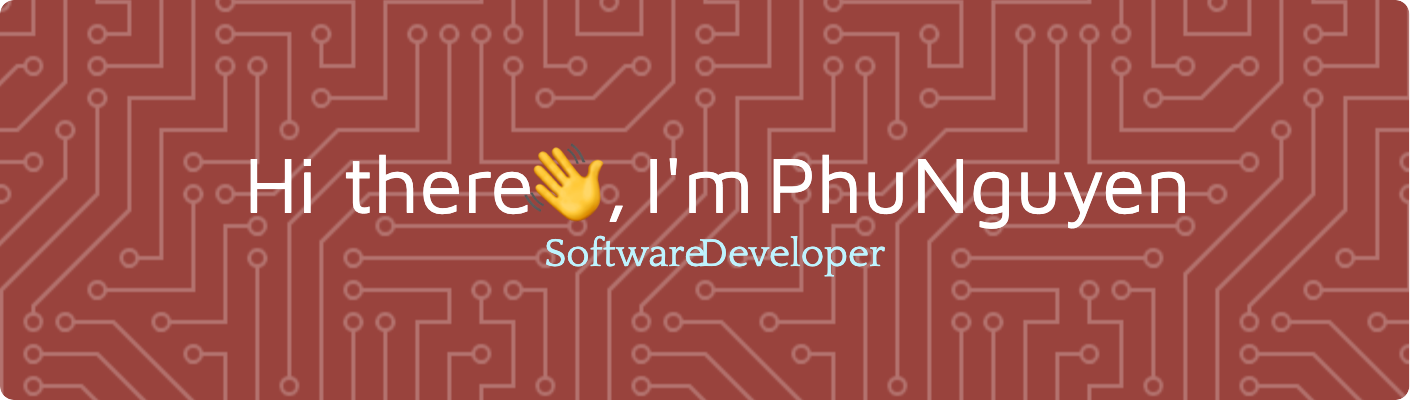
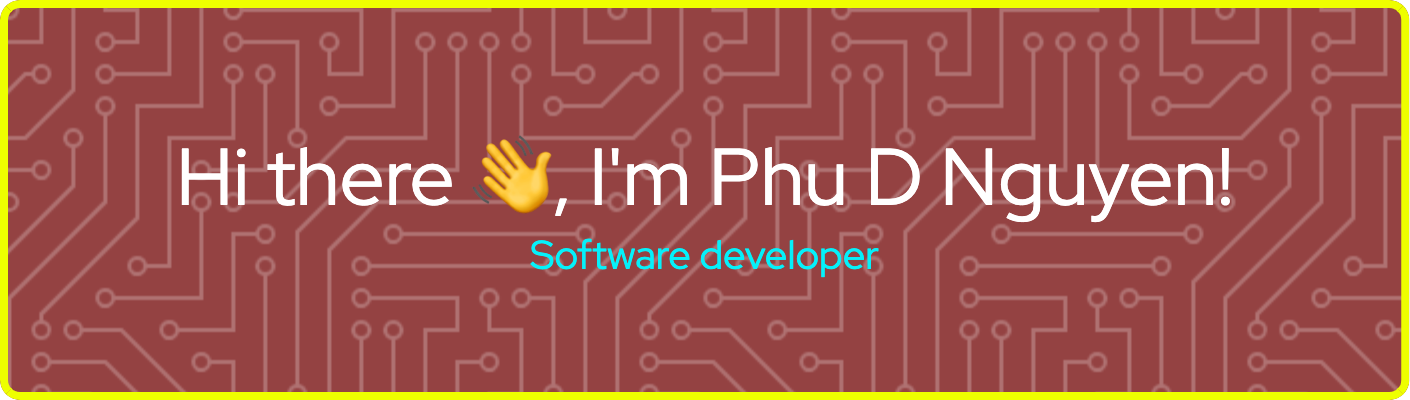
change picture

diff --git a/README.md b/README.md
@@ -1,5 +1,3 @@
-# Hi there 👋, I'm Phu D Nguyen!
-
 ![Phu D Nguyen GitHub Header](github-header-image.png)
 
 I'm a forward-thinking computer science student at Virginia Tech, driven by a passion for programming, big data, and machine learning. My academic pursuits blend seamlessly with my professional endeavors, where I currently tackle challenges in an SMS anti-spam project and explore a multitude of technologies.
